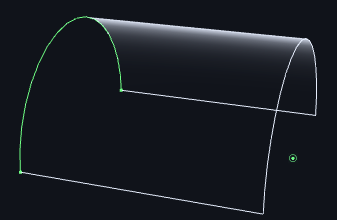
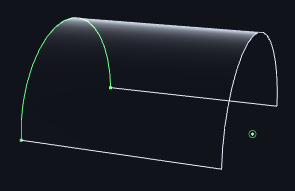
changed surface orientation in examples

Changed region(s): [[0.0305, 0.0524, 0.9458, 0.9948], [0.7932, 0.1571, 0.9458, 0.4188], [0.1831, 0.7592, 0.3051, 0.7853]]

diff --git a/madcad/generation.py b/madcad/generation.py
@@ -40,7 +40,7 @@ def extrusion(shape, trans:transform, alignment:float=0) -> Mesh:
 				
 		Example:
 		
-			>>> extrusion(ArcThrough(-Y, Z, Y), 2*X)
+			>>> extrusion(ArcThrough(+Y, Z, -Y), 2*X)
 	'''
 	trans = transform(trans)
 	neutral = mat4()
@@ -66,7 +66,7 @@ def revolution(shape, axis=Axis(O,Z), angle:float=2*pi, alignment:float=0, resol
 		Example:
 			
 			>>> revolution(
-			... 	ArcThrough(4*Z-Y, 6*Z, 4*Z+Y), 
+			... 	ArcThrough(4*Z+Y, 6*Z, 4*Z-Y), 
 			... 	Axis(O,Y), 
 			... 	1.5*pi,
 			... 	)
